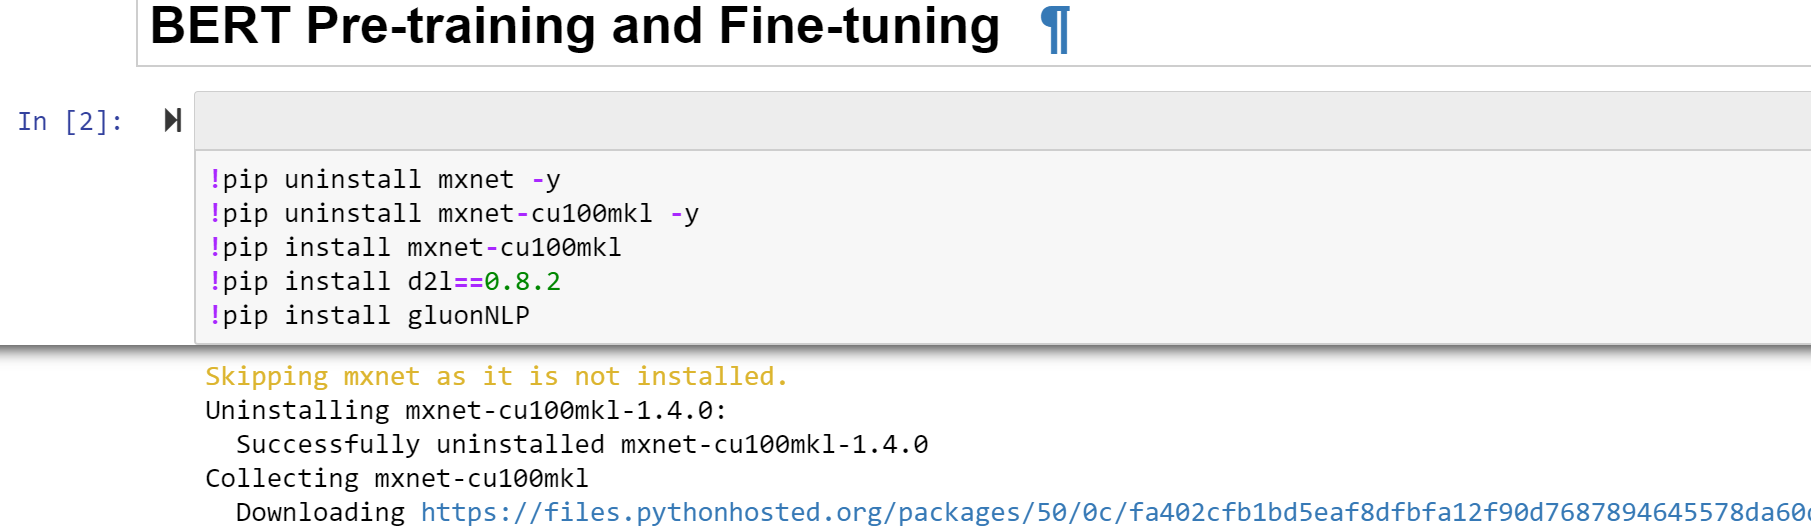
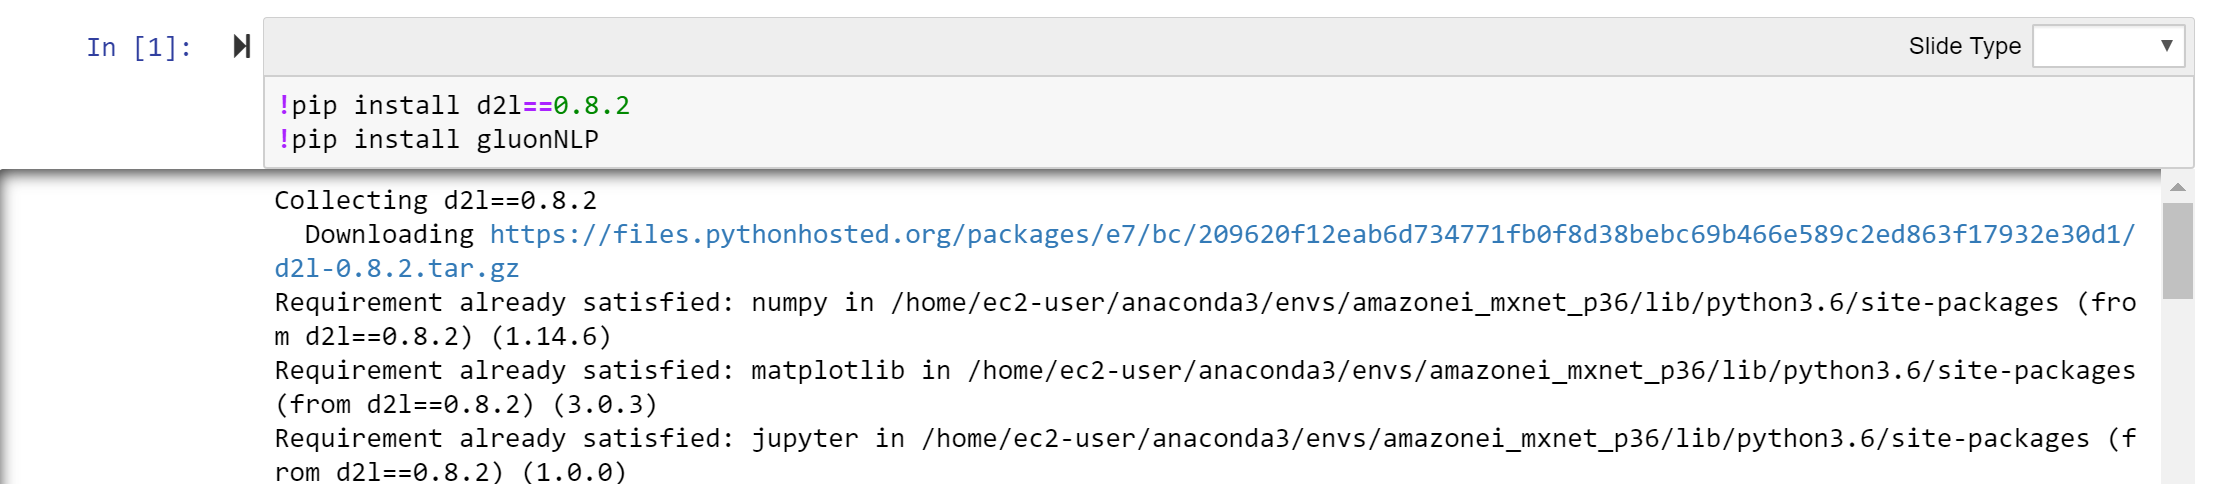
bert mxnet installation update.

Changed region(s): [[0.0, 0.031, 1.0, 1.0], [0.0309, 0.0, 0.6184, 0.155], [0.0, 0.2169, 0.0618, 0.2479]]

diff --git a/README.md b/README.md
@@ -197,16 +197,26 @@ When the Lab is completed, you should be able to see a test Image with object bo
 add the following lines in the cell:
 
 ```
-!pip uninstall mxnet -y
-!pip uninstall mxnet-cu100mkl -y
-!pip install mxnet-cu100mkl
 !pip install d2l==0.8.2
 !pip install gluonNLP
 ```
+
  4.Shift+Enter to run the cell.  
  ![workshop folder](./images/bert-install-mxnet.png)
  
  5.Continue running the notebook.
+ 
+ 6. As the training starts, optionally go into the terminal window and type the command:
+ 
+``` 
+	watch nvidia-smi. 
+```
+
+7. Monitor GPU utilization.
+
+
+
+![workshop folder](./images/gpumonitoring.png) 
 
  
 ## Additional (Optional) NLP Module:  
